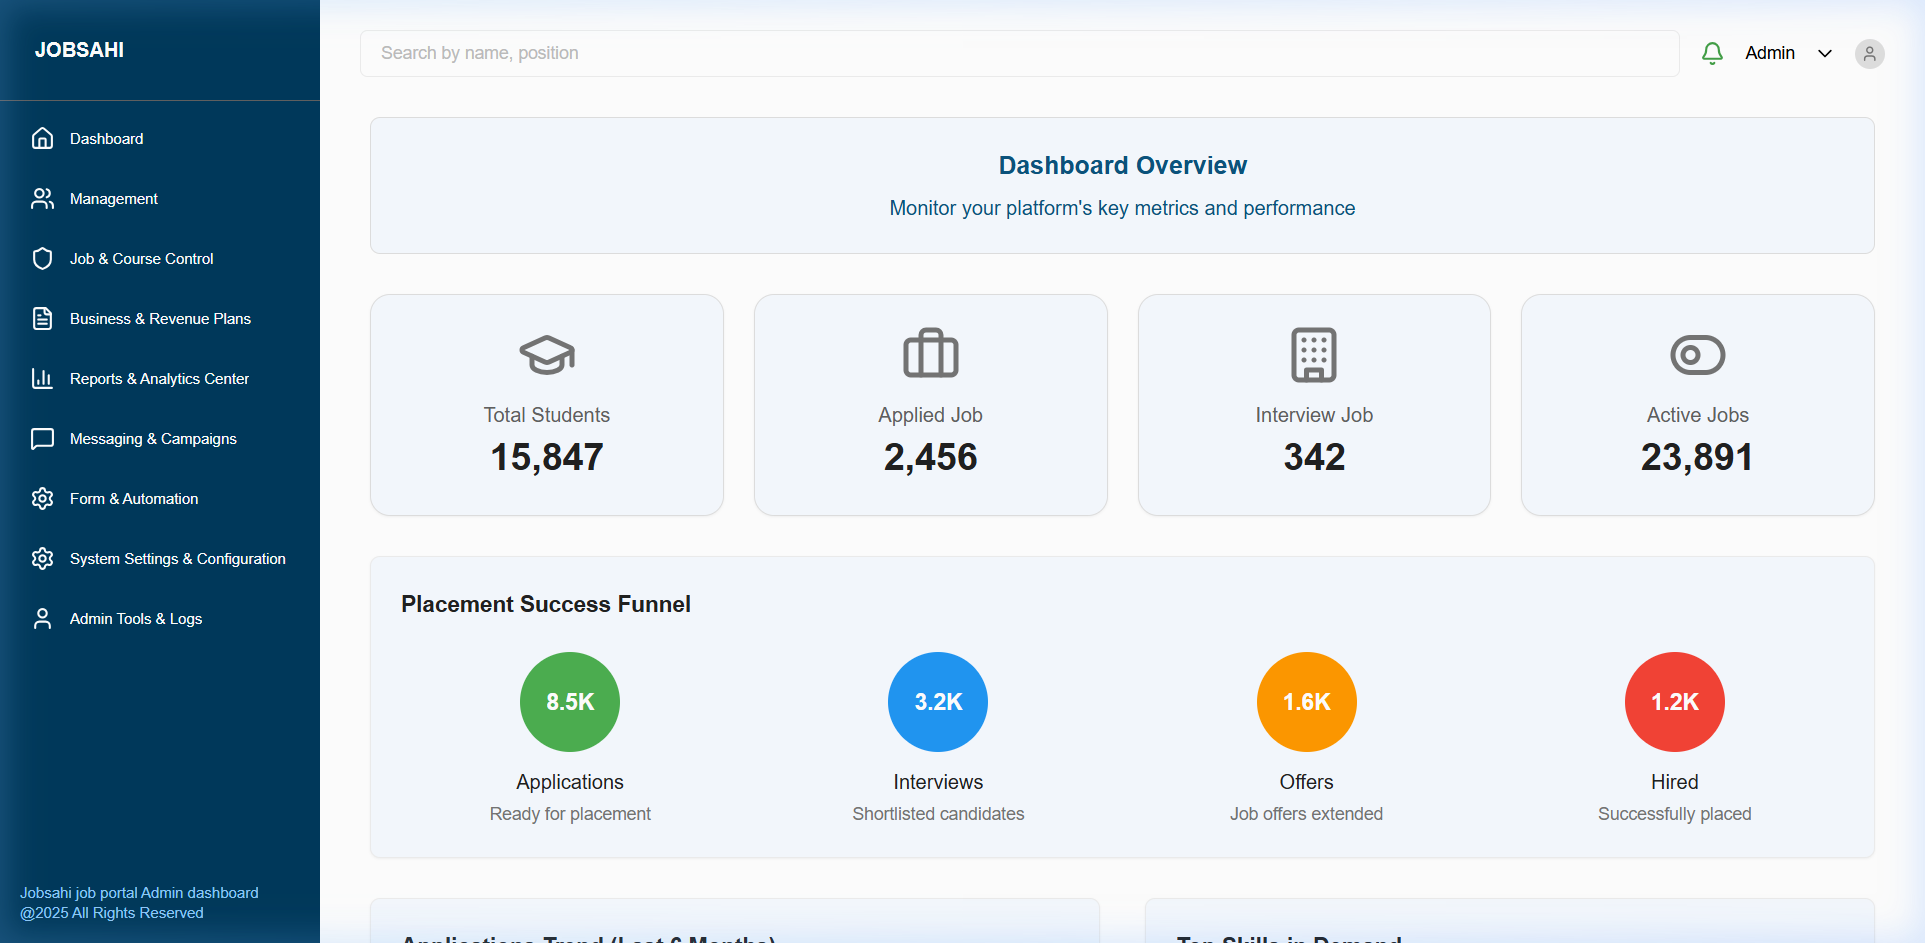
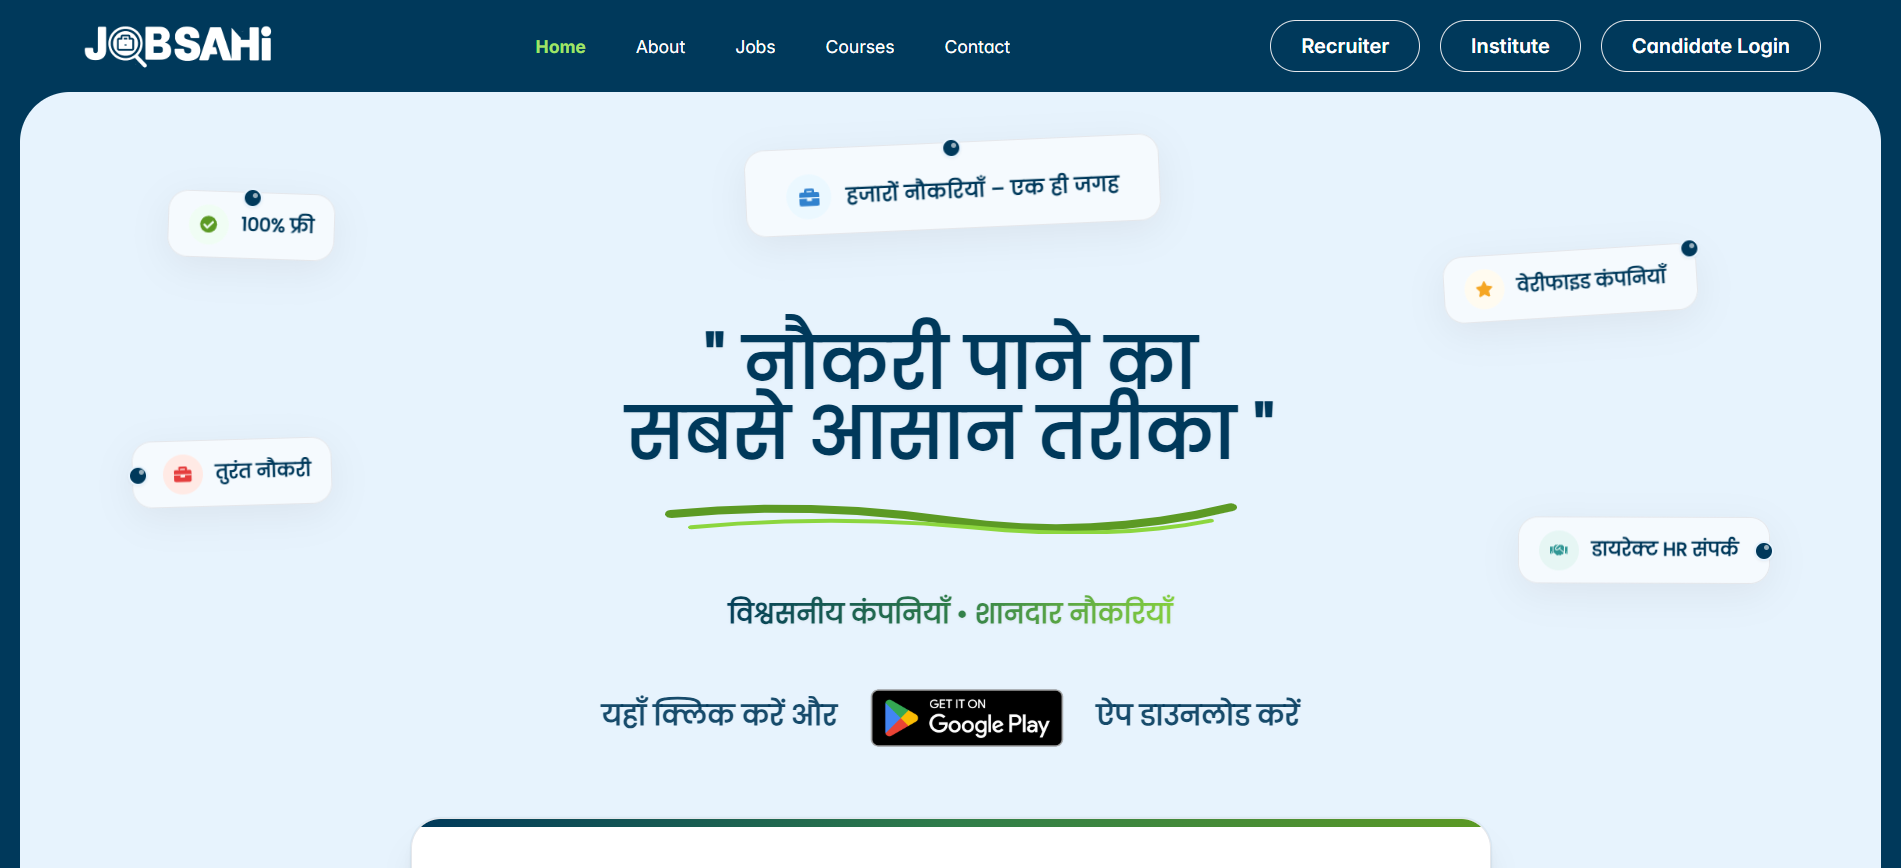
feat: initialize portfolio data and add project image for JobSahi

diff --git a/src/data.js b/src/data.js
@@ -90,8 +90,8 @@ export const projects = [
       "Job posting and management portal",
       "Admin analytics and reporting dashboard"
     ],
-    github: "#",
-    demo: "https://jobsahi.netlify.app/",
+    github: "https://github.com/bhumikajain54/Brightorial",
+    demo: "https://jobsahi.com/",
     image: "/project-images/jobsahi.png"
   },
   {